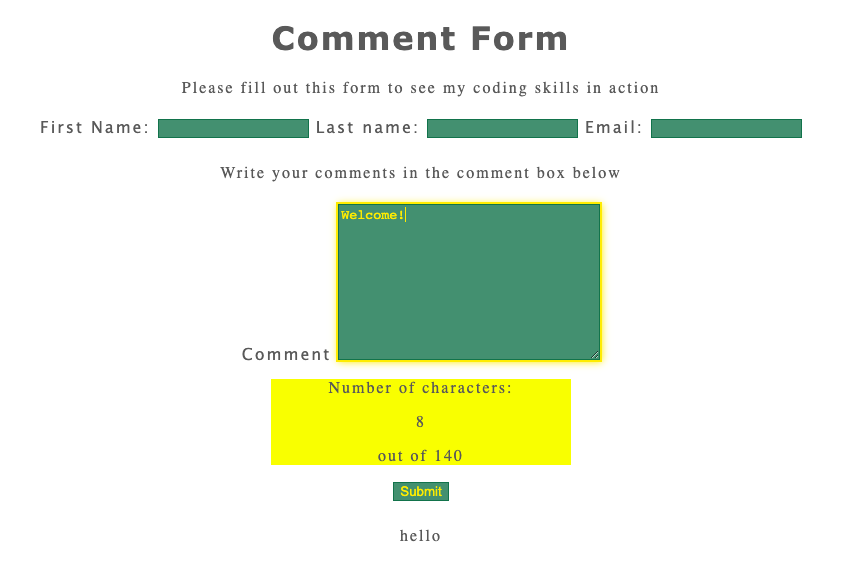
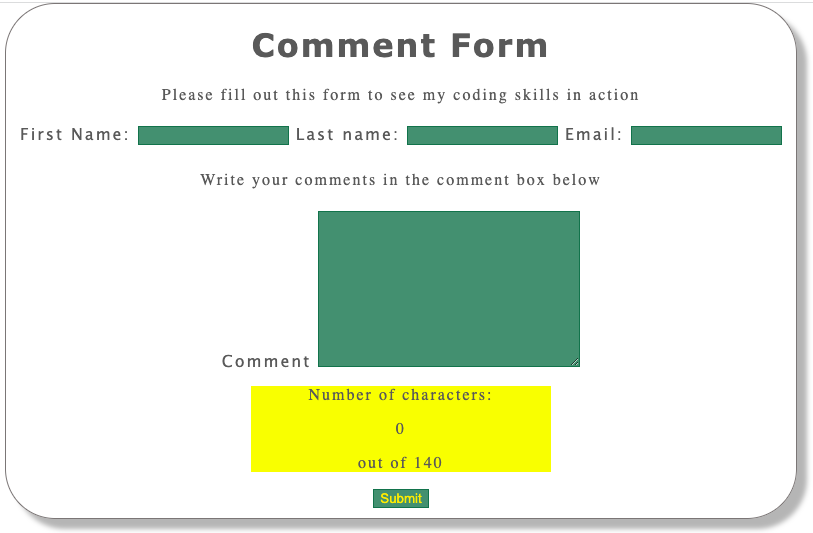
mobile screen resizing

Changed region(s): [[0.0, 0.0, 1.0, 1.0]]

diff --git a/gallery.css b/gallery.css
@@ -76,7 +76,7 @@ body{
 
 }
 .gallery img {
-    width: 500px;
+    width: 100%;
     object-fit: fill;
     display: flex;
     justify-content: center;
@@ -105,13 +105,22 @@ button{
 
 }
 
-/*  @media (max-width: 500px) {
-    #gallery .gallery{
-    width: -webkit-fill-available; 
+  @media (max-width: 500px) {
+    #gallery {
+    display: inline;
+    width: fit-content;
+    
+    
+    /* Keeps the cards within the screen size display */
+    
     }
-    .gallery img {
-     width: -webkit-fill-available; 
-    } 
+   #header{
+    width: fit-content;
+    
+   }
+   #header h1{
+    font: x-large;
+   }
 
-}  */
+} 
 

diff --git a/index.html b/index.html
@@ -76,7 +76,7 @@
 
             <div class="gallery" id="feature-section">
                     <h1>Feature</h1>
-                    <a href="https://eliazzo.github.io/Feature/"><img src="splash.png" alt="feature_link"></a>
+                    <a href="https://eliazzo.github.io/Feature-2/"><img src="splash.png" alt="feature_link"></a>
                     <button id="feature-text" onclick="revealFeatureText()">What's it all about?</button>
             </div>
 
